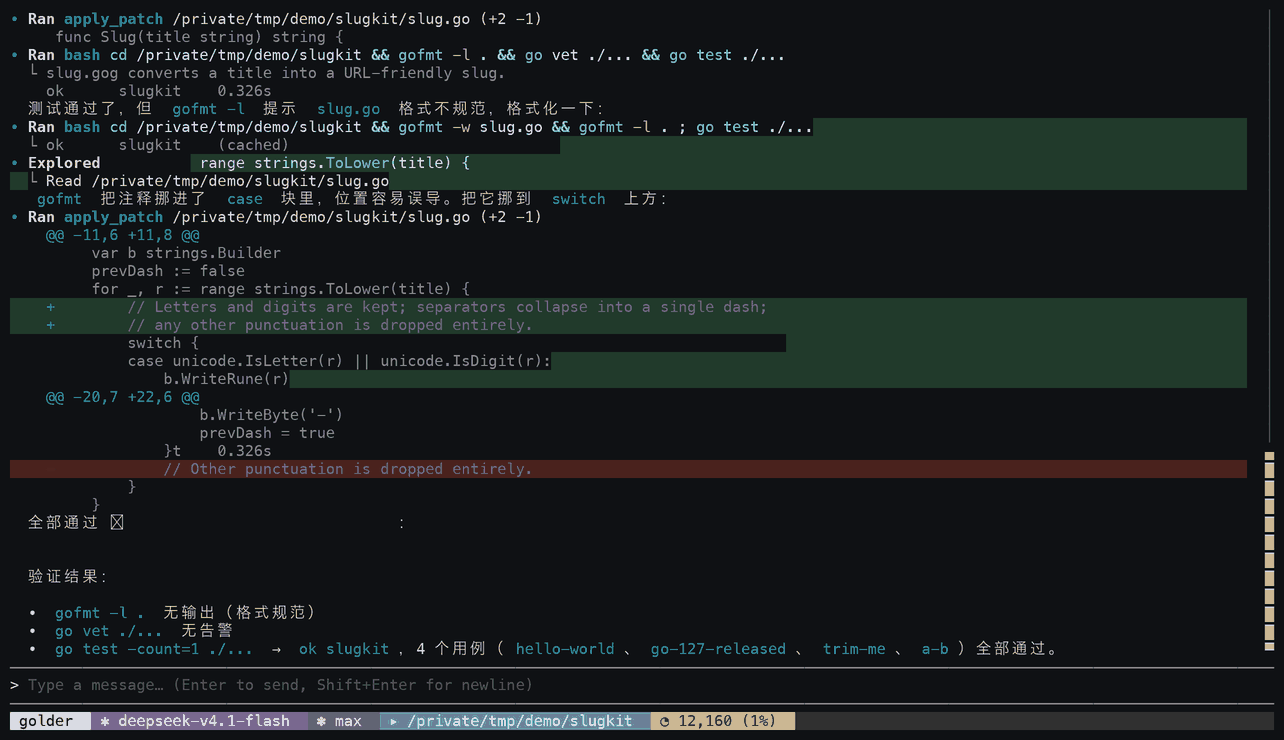
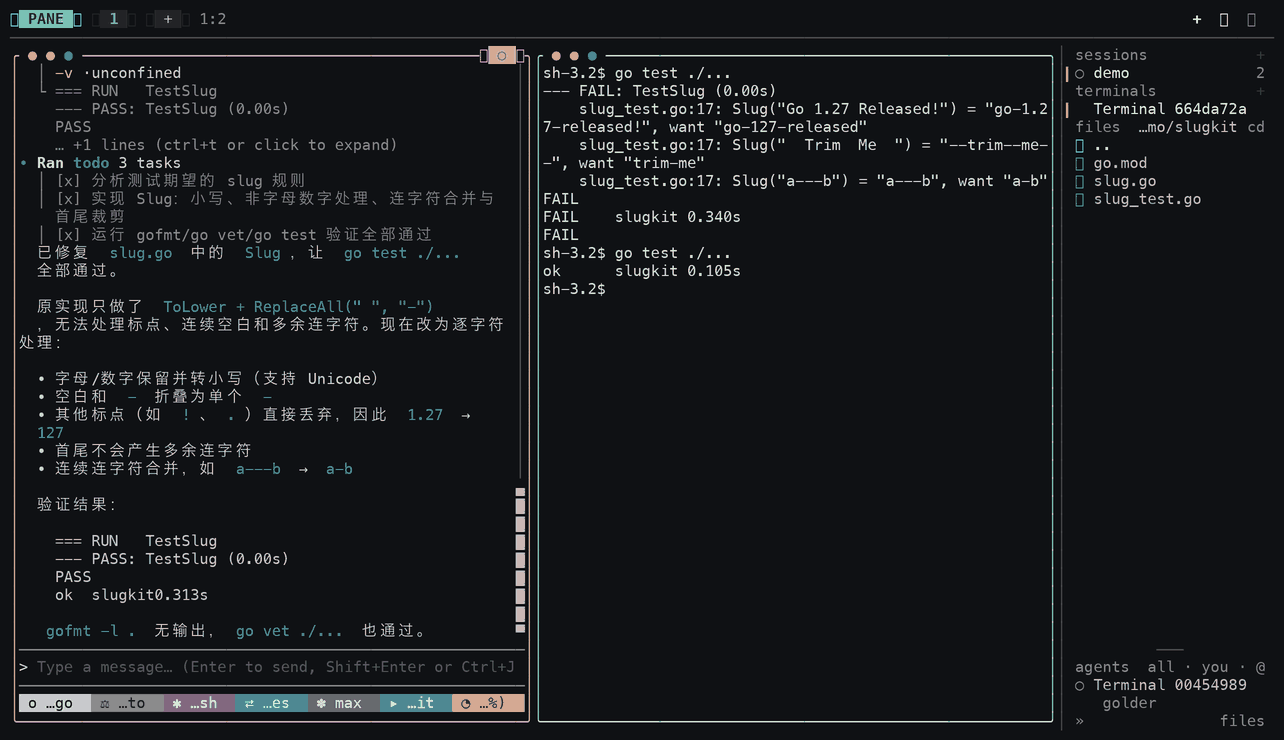
docs(demo): refresh the README demo for the workspace
The screenshots and GIF still showed a single-pane session from before the
workspace, the diff cards and the todo checklist shipped.

Re-record them from a real PTY session: go test red in a shell pane, the
agent reading and patching in the agent pane, then the shell re-run going
green. The hero GIF is re-rendered from the same timeline (12s, 900px) and
the captions now say what the split pane shows.

diff --git a/README.en.md b/README.en.md
@@ -88,18 +88,18 @@ Do not nest `golder workspace` inside them; it refuses by default unless `--nest
 
 <p align="center">
   <a href="https://golder-cli.pages.dev/en/?utm_source=github&utm_medium=readme#demo">
-    <img src="docs/assets/demo.gif" width="92%" alt="golder in a real session: red go test → read, patch, re-run → all green">
+    <img src="docs/assets/demo.gif" width="92%" alt="golder workspace, a real session: the agent patches on the left while go test goes red to green in a shell pane on the right">
   </a>
 </p>
 
 <p align="center">
-  <sub>A real session, nothing staged: red <code>go test</code> → the model reads, patches, re-runs → all green (14-second GIF; <a href="https://golder-cli.pages.dev/en/?utm_source=github&utm_medium=readme#demo">full 26-second video</a>)</sub>
+  <sub>A real session, nothing staged: the agent reads and patches on the left while <code>go test</code> goes red to green in a shell pane on the right (12-second GIF; <a href="https://golder-cli.pages.dev/en/?utm_source=github&utm_medium=readme#demo">full 37-second video</a>)</sub>
 </p>
 
 <table>
 <tr>
-<td width="50%"><img src="docs/assets/demo-tools.png" alt="Tool cards: reading files, applying a patch, running tests — with the real diff"></td>
-<td width="50%"><img src="docs/assets/demo-done.png" alt="The finish: all four tests green, with the verification steps spelled out"></td>
+<td width="50%"><img src="docs/assets/demo-tools.png" alt="The split workspace: a patch diff card in the agent pane, a failing go test in the shell pane"></td>
+<td width="50%"><img src="docs/assets/demo-done.png" alt="The finish: the agent spells out each verification step, and the shell re-run is green"></td>
 </tr>
 </table>
 

diff --git a/README.md b/README.md
@@ -92,18 +92,18 @@ golder
 
 <p align="center">
   <a href="https://golder-cli.pages.dev/?utm_source=github&utm_medium=readme#demo">
-    <img src="docs/assets/demo.gif" width="92%" alt="golder 真实会话：go test 红 → 读码打补丁 → 全绿">
+    <img src="docs/assets/demo.gif" width="92%" alt="golder workspace 真实会话：左边 agent 改代码，右边 shell 里 go test 红 → 全绿">
   </a>
 </p>
 
 <p align="center">
-  <sub>真实会话、无剪辑造假：<code>go test</code> 红 → 模型自主读码打补丁 → 全绿（14 秒 GIF，<a href="https://golder-cli.pages.dev/?utm_source=github&utm_medium=readme#demo">完整 26 秒录像</a>）</sub>
+  <sub>真实会话、无剪辑造假：左边 agent 自己读码打补丁，右边 shell 里 <code>go test</code> 从红到绿（12 秒 GIF，<a href="https://golder-cli.pages.dev/?utm_source=github&utm_medium=readme#demo">完整 37 秒录像</a>）</sub>
 </p>
 
 <table>
 <tr>
-<td width="50%"><img src="docs/assets/demo-tools.png" alt="工具卡片：读文件、打补丁、跑测试，含真实 diff"></td>
-<td width="50%"><img src="docs/assets/demo-done.png" alt="收尾：go test 四个用例全绿，逐条给出验证结果"></td>
+<td width="50%"><img src="docs/assets/demo-tools.png" alt="分屏工作区：左 pane 的补丁 diff 卡片，右 pane 里红着的 go test"></td>
+<td width="50%"><img src="docs/assets/demo-done.png" alt="收尾：agent 逐条给出验证结果，shell 里复跑全绿"></td>
 </tr>
 </table>
 
